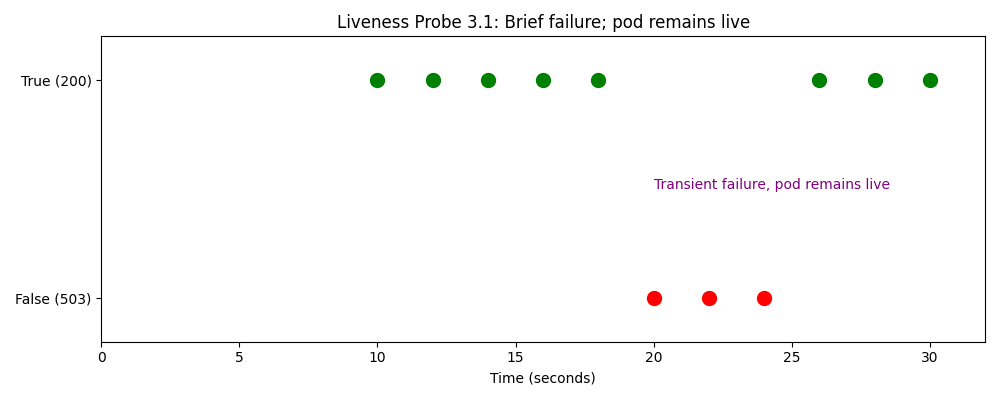
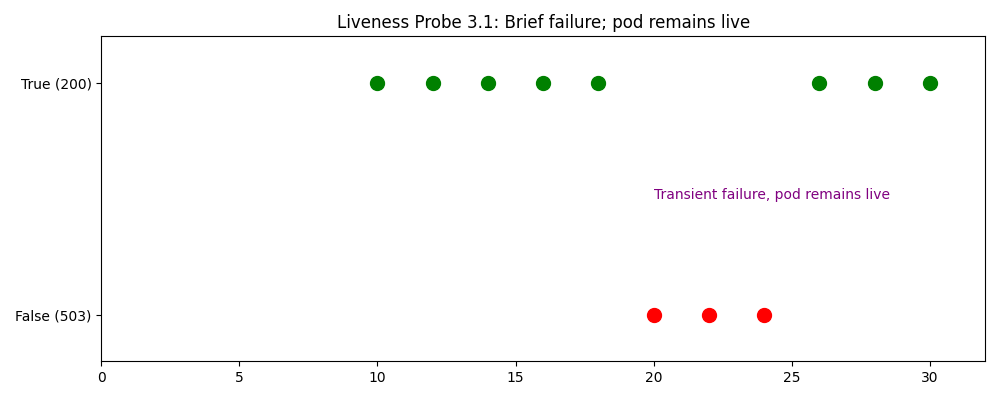
Polish generated

diff --git a/diagrams.py b/diagrams.py
@@ -24,7 +24,7 @@ def setup_plot(x_max, title):
     fig, ax = plt.subplots(figsize=(10, 4))
     ax.set_xlim(0, x_max)
     ax.set_ylim(-0.2, 1.2)
-    ax.set_xlabel("Time (seconds)")
+    ax.set_xlabel("")
     ax.set_yticks([0, 1])
     ax.set_yticklabels(["False (503)", "True (200)"])
     ax.set_xticks(np.arange(0, x_max+1, 5))
@@ -197,7 +197,7 @@ def diagram_3_2():
     ax.annotate("k8s decides to kill the pod", xy=(28, 0), xytext=(25, -0.4),
                 arrowprops=dict(arrowstyle="->", color='red'))
     # Termination grace period of 60 sec: annotate forced kill at t=28+60=88 sec.
-    ax.annotate("k8s kills the pod", xy=(28, 0), xytext=(32, -0.6),
+    ax.annotate("Grace period starts", xy=(28, 0), xytext=(32, -0.6),
                 arrowprops=dict(arrowstyle="->", color='black'))
     plt.tight_layout()
     fig.savefig("diagrams/3.2-liveness.png")
